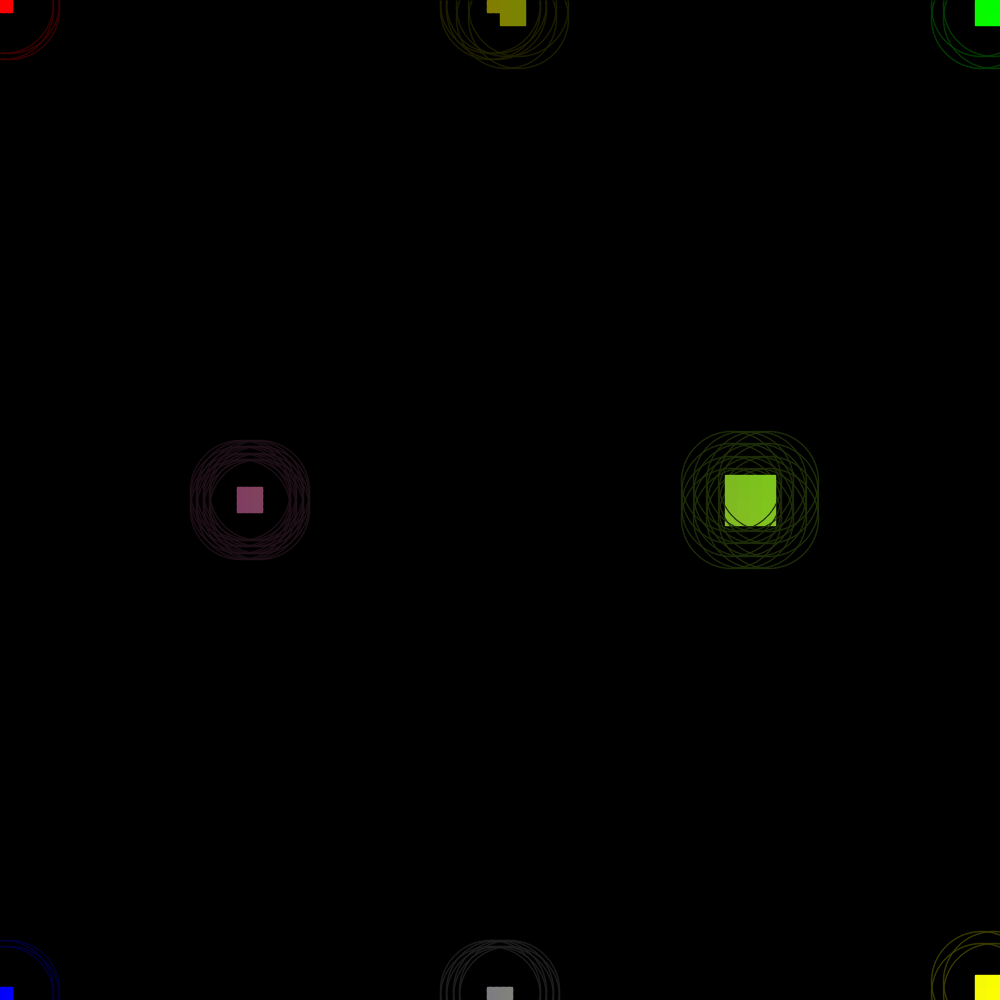
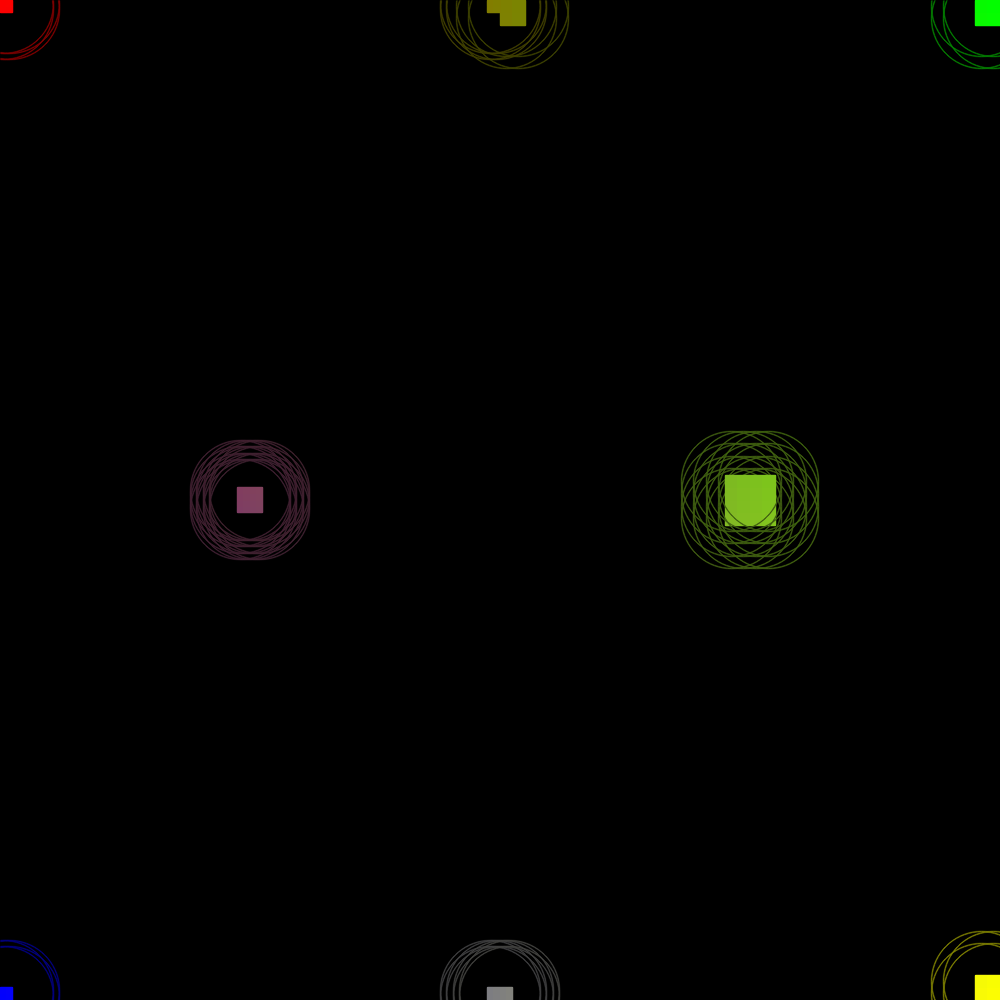
Updating plot

diff --git a/main.cpp b/main.cpp
@@ -133,8 +133,7 @@ void draw() {
     std::cout << "Time: " << std::chrono::duration_cast<std::chrono::milliseconds>(end - start).count() << "ms" << std::endl;
     std::cout << "Boxes: " << boxes.get_boxes().size() << std::endl;
     for(const Box &box: boxes.get_boxes()) {
-        plot_boxes.point(box.center(), box.color(), 3);
-        plot_boxes.circle(box.center(), 0.1, box.color() / 4);
+        plot_boxes.circle(box.center(), 0.1, box.color() / 2);
         plot_boxes.filled_box(box.normalized(), box.color());
         for(const Vector3 &vertex: polyhedron) {
             plot_main.polygon(box.boundary(vertex, 0.1, 0.1), box.color());
